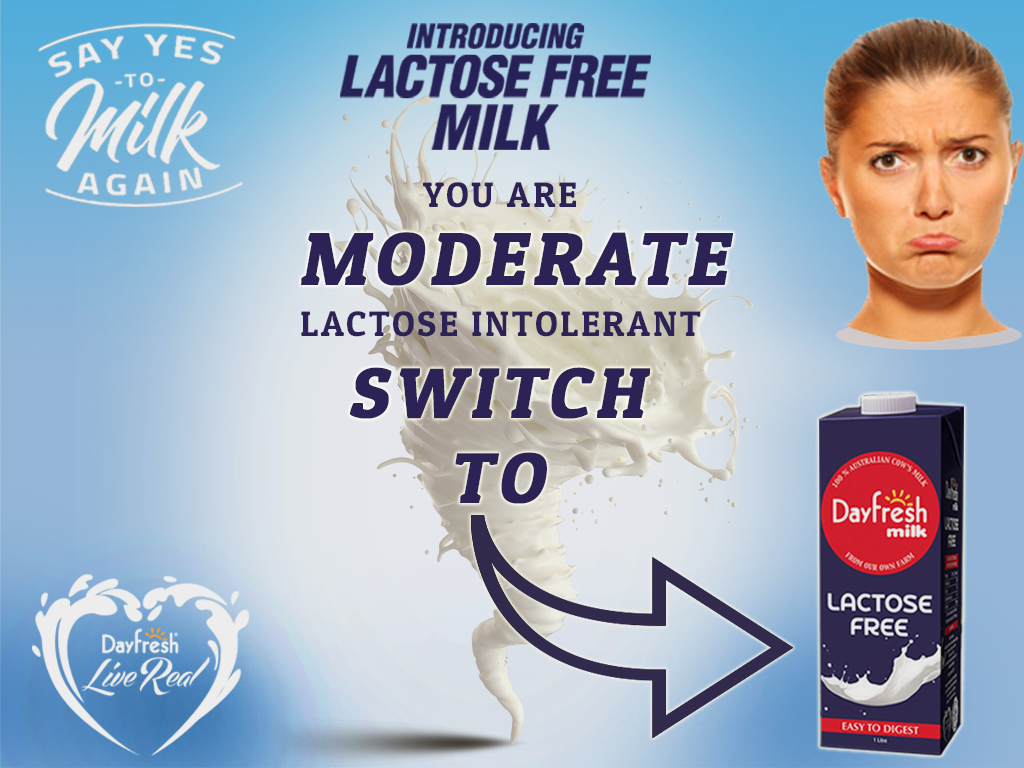
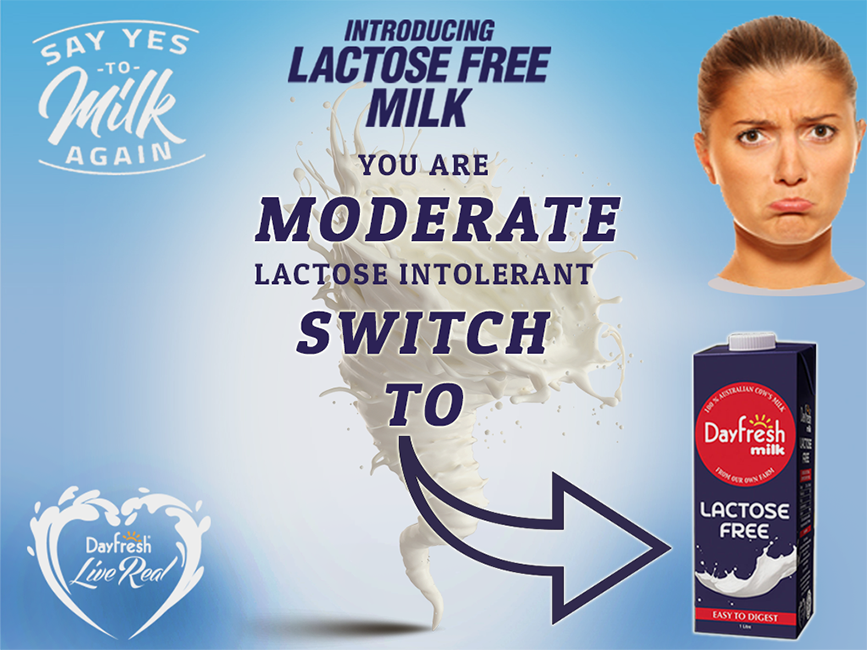
Add files via upload

Changed region(s): [[0.872, 0.6462, 0.9031, 0.6769]]

diff --git a/not-intolerant.html b/not-intolerant.html
@@ -18,10 +18,10 @@
   <!-- <link rel="stylesheet" href="https://maxcdn.bootstrapcdn.com/bootstrap/3.3.5/css/bootstrap.min.css"> -->
   <link href="style.css" rel="stylesheet">
   </head>
-<body style="background: #a7a8a9 url('not-intolerant.png') no-repeat center;">
+<body style="background: #93b6d9 url('not-intolerant.png') no-repeat center;">
   <div class="container">
-  <a href="index.html"><img style="margin-top: 30%;" src="startagain.png" ></a>
+  <a href="index.html"><img style="margin-top: 10%;" src="startagain.png" ></a>
   </div>
 </body>
 </html>
-<!-- create a dive with button that loads data and than show this div  -->
+<!-- create a div with button that loads data and than show this div  -->

diff --git a/severe-lacoste.html b/severe-lacoste.html
@@ -18,9 +18,9 @@
   <!-- <link rel="stylesheet" href="https://maxcdn.bootstrapcdn.com/bootstrap/3.3.5/css/bootstrap.min.css"> -->
   <link href="style.css" rel="stylesheet">
   </head>
-<body style="background: #a7a8a9 url('severe.png') no-repeat center;">
+<body style="background: #93b6d9 url('severe.png') no-repeat center;">
   <div class="container">
-  <a href="index.html"><img style="margin-top: 30%;" src="startagain.png" ></a>
+  <a href="index.html"><img style="margin-top: 10%;" src="startagain.png" ></a>
   </div>
 </body>
 </html>

diff --git a/mild-lacoste.html b/mild-lacoste.html
@@ -18,9 +18,9 @@
   <!-- <link rel="stylesheet" href="https://maxcdn.bootstrapcdn.com/bootstrap/3.3.5/css/bootstrap.min.css"> -->
   <link href="style.css" rel="stylesheet">
   </head>
-<body style="background: #a7a8a9 url('mild.png') no-repeat center;">
+<body style="background: #93b6d9 url('mild.png') no-repeat center;">
   <div class="container">
-  <a href="index.html"><img style="margin-top: 30%;" src="startagain.png" ></a>
+  <a href="index.html"><img style="margin-top: 10%;" src="startagain.png" ></a>
   </div>
 </body>
 </html>

diff --git a/style.css b/style.css
@@ -1,8 +1,11 @@
+
  body{
-      background: #a7a8a9 url('bg.png') no-repeat center;
+    background: #93b6d9 url('bg.png') no-repeat center;
+    margin: 0;
+    padding: 0;
     }
     .container{
-      margin-top: 30%;
+      margin-top: 20%;
       /*margin-left: 15%;*/
       text-align: -webkit-center;
      
@@ -15,8 +18,8 @@
     font-style: italic;
     letter-spacing: 5;
     text-align: left;
-    padding: 0 150px;
+    padding: 0 280px;
     }
     .marginLeft{
-      margin-left: 20%;
+        margin-left: 200px;
     }

diff --git a/index.html b/index.html
@@ -9,9 +9,7 @@
   <!-- <link rel="stylesheet" href="https://maxcdn.bootstrapcdn.com/bootstrap/3.3.5/css/bootstrap.min.css"> -->
   <link href="style.css" rel="stylesheet">
   </head>
-<body style="background: #a7a8a9 url('intro.png') no-repeat center;" >
-  <div class="container">
+<body style="background: #93b6d9 url('intro.png') no-repeat center; text-align: -webkit-center;" >
   <a href="Q1.html"><img style="margin-top: 30%;" src="start.png" ></a>
-  </div>
 </body>
 </html>

diff --git a/moderate-lacoste.html b/moderate-lacoste.html
@@ -18,9 +18,9 @@
 </script>
   <link href="style.css" rel="stylesheet">
   </head>
-<body style="background: #a7a8a9 url('moderate.png') no-repeat center;">
+<body style="background: #93b6d9 url('moderate.png') no-repeat center;">
   <div class="container">
-  <a href="index.html"><img style="margin-top: 30%;" src="startagain.png" ></a>
+  <a href="index.html"><img style="margin-top: 10%;" src="startagain.png" ></a>
   </div>
 </body>
 </html>
